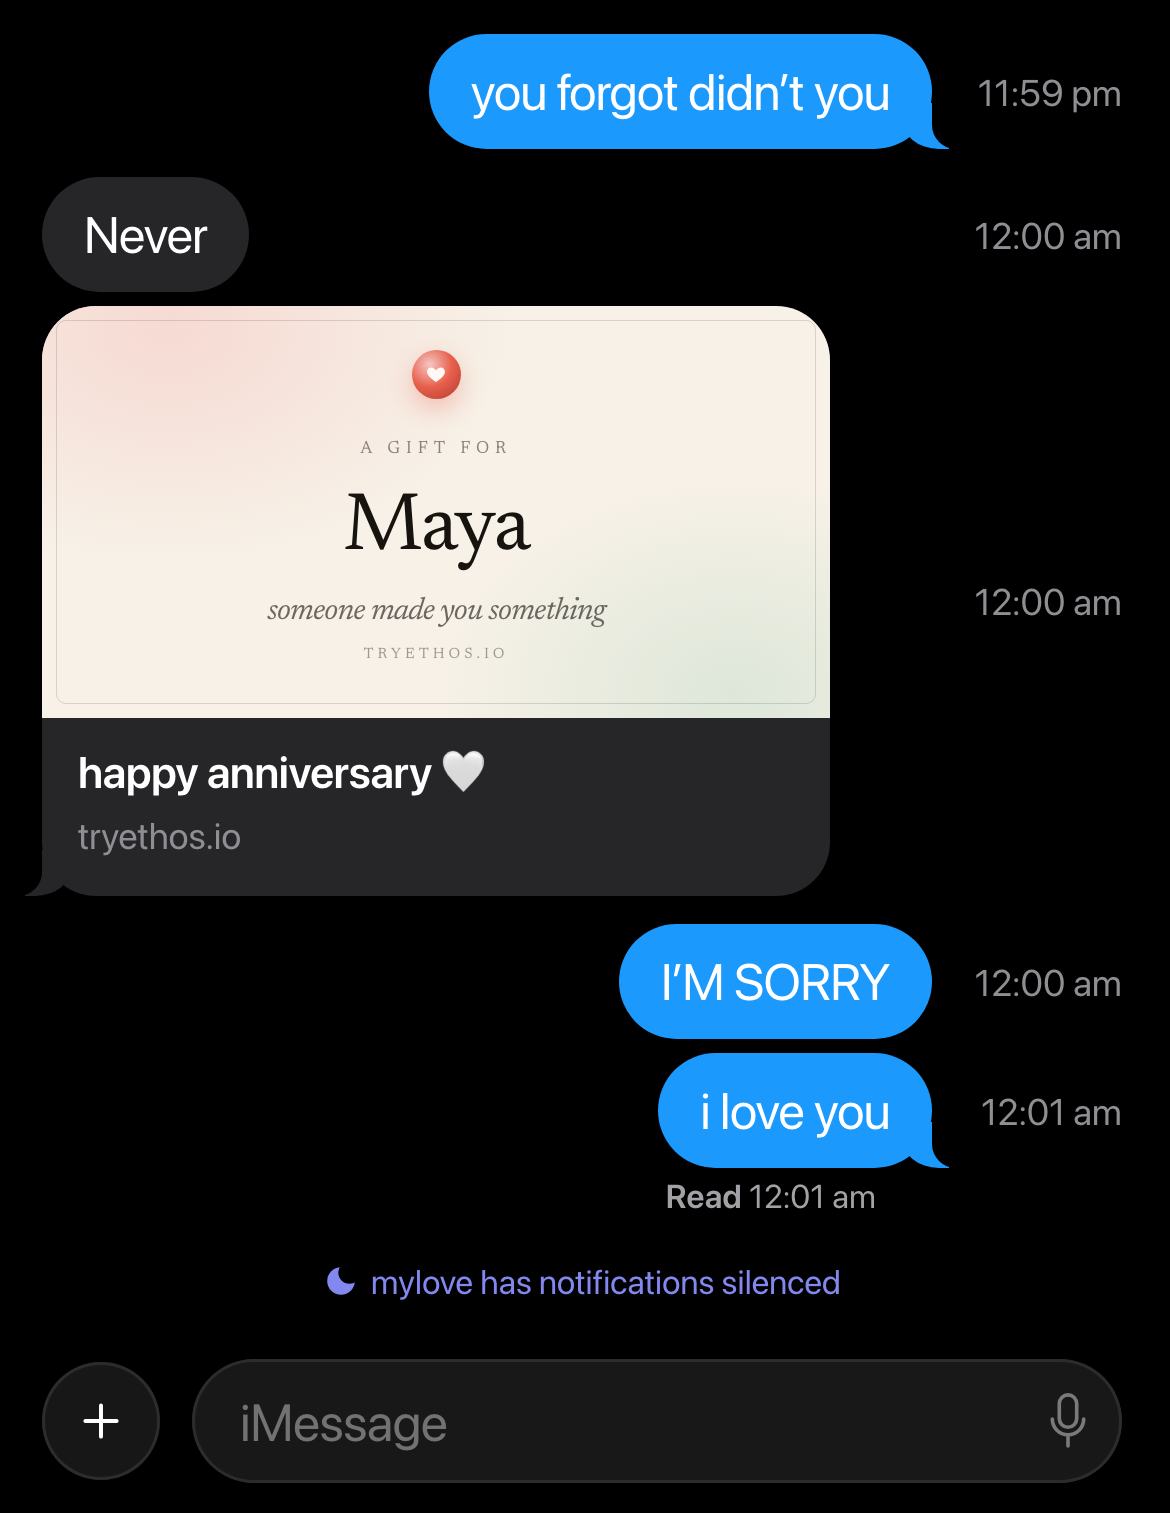
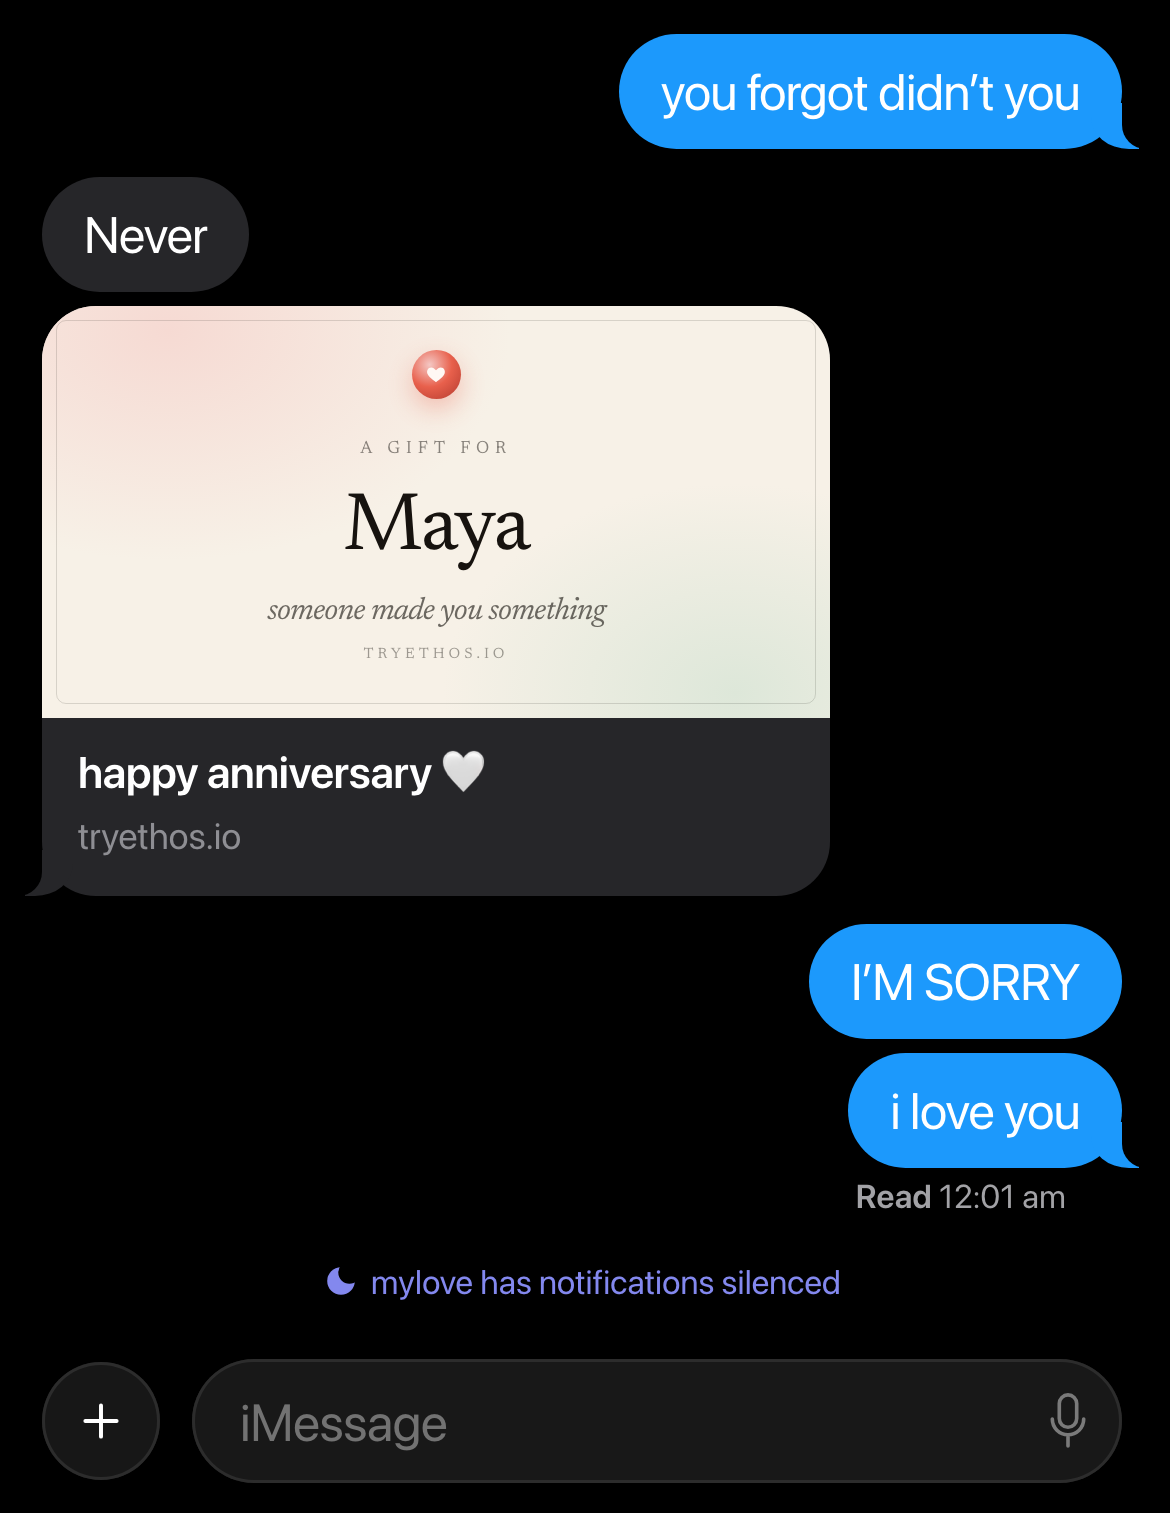
Carousels 400, 410, 420, 431: no times down the right
The owner on 431: "that is not how imessages look the 12 am at the right".
The four posts that showed the thread swiped open, with a time beside the
link card, are plain chats now; the "Read 12:01 am" under her last message
says when. The swiped look itself now matches the reference for plain
text: smaller grey times and the scroll bar iOS shows while dragging.

diff --git a/docs/marketing/VIRAL-FORMULA.md b/docs/marketing/VIRAL-FORMULA.md
@@ -1611,8 +1611,10 @@ with the link in a short chat, or 2–3 slides, never 8–10.)
 - **The account's three extras**, used as the punchline:
   - Her reply typed in the bar and not sent, with the caret and the blue send button (`"input"`:
     "marry me", "now i really can't sleep").
-  - The thread swiped left to show every time (`"swiped": true`, a `time` on each message): she
-    accuses him at 11:59, his link lands at 12:00.
+  - The thread swiped left to show every time (`"swiped": true`, a `time` on each message). Only for
+    plain text bubbles: on 8 Oct the owner sent back 431, where "12:00 am" sat beside the link card
+    ("that is not how imessages look the 12 am at the right"). 400, 410, 420 and 431 dropped it; the
+    "Read 12:01 am" under her last message carries the time instead.
   - He's saved as something rude ("do not answer") and sends the sweetest texts (`"silenced"`).
 - She only reacts to the link; nothing says what's inside it, as always.
 
@@ -1623,7 +1625,7 @@ with the link in a short chat, or 2–3 slides, never 8–10.)
 | 397 | "you never do anything cute for me" | "i take it all back" |
 | 398 | "Don't open this at work" | "I said don't" |
 | 399 | "today was so bad" | her draft: "i'm crying on the bus" |
-| 400 | "you forgot didn't you" (swiped, 11:59 → 12:00) | "i love you" |
+| 400 | "you forgot didn't you" → "Never" + the link | "I'M SORRY / i love you" (Read 12:01 am) |
 | 401 | "i can't sleep" (2:14 am) | her draft: "now i really can't sleep" |
 | 402 | "you're so annoying" | her draft: "okay i love you" |
 | 403 | saved as "do not answer": iced coffee at her door | "Love you" |
@@ -1646,7 +1648,7 @@ script sets it). For Spain, swap "te amo" for "te quiero" and "papitas" for "pat
 | 407 | "nunca haces nada lindo por mí" | "retiro todo lo dicho" |
 | 408 | "No lo abras en el trabajo" | "Te dije que no" |
 | 409 | "hoy fue un día horrible" | her draft: "estoy llorando en el bus" |
-| 410 | "se te olvidó verdad" (swiped, 23:59 → 0:00) | "te amo" |
+| 410 | "se te olvidó verdad" → "Nunca" + the link | "PERDÓN / te amo" (Leído 0:01) |
 | 411 | "no puedo dormir" (2:14) | her draft: "ahora sí que no voy a dormir" |
 | 412 | "eres insoportable" → "Y te toca aguantarme" | her draft: "ok te amo" |
 | 413 | saved as "no contestar": a café helado at her door | "Te amo" |
@@ -1671,7 +1673,7 @@ each chat is one of three shapes, with the link as part of the punchline, not an
 | 417 | "rate me 1 to 10" → "1" → "EXCUSE ME" | the link "my only 1 🤍" |
 | 418 | saved as "NOT my boyfriend": breakfast at her door | the link "for my girl 🤍" |
 | 419 | "i hate you" | the link "i love you too 🤍", her draft "okay i don't hate you" |
-| 420 | "going to sleep early" (swiped: 9:02 → 9:34) | "i was literally still awake" |
+| 420 | "going to sleep early" → "Are you asleep / Okay you're asleep" | "i was literally still awake" |
 | 421 | "babe are you busy" → "You skipped lunch don't lie" | her draft "how did you know i skipped lunch" |
 | 422 | "who's that girl on your story" → "My mom" | "She also helped me with this" + the link |
 | 423 | "nobody loves me 😔" → "We're literally on FaceTime rn" | the link "nobody huh 🤍" |
@@ -1705,7 +1707,7 @@ flowers and iced coffee at you're front door", "You said nap not a coma / I miss
 | 428 | a hard day | "I'm so proud of you for getting through it", her draft "i don't deserve you" |
 | 429 | a surprise date | "Be ready at 8 tonight / You'll see / Open this first" → "NO WAYYYY" |
 | 430 | sorry after a fight | "I could never stay mad at you / Come here", her draft "i love you more" |
-| 431 | 1 year, 12:00 on the dot (swiped) | "Happy 1 year my love / Best year of my life" |
+| 431 | 1 year, at midnight | "Happy 1 year my love / Best year of my life" → "it's literally 12:00 😭" |
 | 432 | nervous the night before | "You worked so hard for this / Open this before you go in" |
 | 433 | before his long shift | "Left iced coffee at you're front door / And made you this for your break" |
 | 434 | she's sick | "Soup's coming in 20 / And this so you smile a little" |

diff --git a/docs/marketing/tiktok-431/SCRIPT.md b/docs/marketing/tiktok-431/SCRIPT.md
@@ -1,7 +1,7 @@
 # 431 · 12:00
 
-**Kind:** in love and everyday, like the screenshots the user sent: their anniversary: the times show he sent it the second it turned midnight. One image, one short chat:
-dark iMessage on iOS 26, cropped, with "mylove has notifications silenced" and the message bar under it. Here the thread is swiped left to show the times.
+**Kind:** in love and everyday, like the screenshots the user sent: their anniversary: he sends it the second it turns midnight, and she notices. One image, one short chat:
+dark iMessage on iOS 26, cropped, with "mylove has notifications silenced" and the message bar under it.
 **The gift:** the tryethos link is in the chat as something he made her. She only reacts; nothing says what's inside it.
 **Names:** Maya on the link card only. He's saved as "mylove".
 **Where to post:** the 14k account, in the evening. A single photo post: just this one image.

diff --git a/docs/marketing/tiktok-400/SCRIPT.md b/docs/marketing/tiktok-400/SCRIPT.md
@@ -1,7 +1,7 @@
 # 400 · you forgot didn't you
 
 **Kind:** sweet and funny. One image, one short chat, the way the storytime account the user found (7 Oct) posts:
-dark iMessage on iOS 26, cropped, with "mylove has notifications silenced" and the message bar under it. Here the thread is swiped left to show the times.
+dark iMessage on iOS 26, cropped, with "mylove has notifications silenced" and the message bar under it.
 **The gift:** the tryethos link is in the chat. She only reacts; nothing says what's inside it.
 **Names:** Maya on the link card only. He's saved as "mylove".
 **Where to post:** the 14k account, in the evening. A single photo post: just this one image.

diff --git a/docs/marketing/tiktok-410/SCRIPT.md b/docs/marketing/tiktok-410/SCRIPT.md
@@ -2,7 +2,7 @@
 
 **Kind:** sweet and funny, in Spanish: 400 rewritten so the joke lands in Spanish, not translated word for word.
 One image, one short chat: dark iMessage on iOS 26, cropped, with "mi amor tiene las notificaciones
-silenciadas" and the message bar under it. Here the thread is swiped left to show the times.
+silenciadas" and the message bar under it.
 **Spanish:** neutral Latin American ("te amo", "papitas", "bus"), 24-hour times, "Leído" receipts, the
 Spanish link card (`"lang": "es"`: "UN REGALO PARA Maya").
 **The gift:** the tryethos link is in the chat. She only reacts; nothing says what's inside it.

diff --git a/docs/marketing/tiktok-420/SCRIPT.md b/docs/marketing/tiktok-420/SCRIPT.md
@@ -1,7 +1,7 @@
 # 420 · going to sleep early
 
 **Kind:** sweet and funny. One image, one short chat: dark iMessage on iOS 26, cropped, with "mylove has
-notifications silenced" and the message bar under it. Here the thread is swiped left to show the times.
+notifications silenced" and the message bar under it.
 **Why it should spread:** the times tell the joke: he lasts 29 minutes without her.
 **The gift:** the tryethos link is in the chat. She only reacts; nothing says what's inside it.
 **Names:** Maya on the link card only. He's saved as "mylove".
